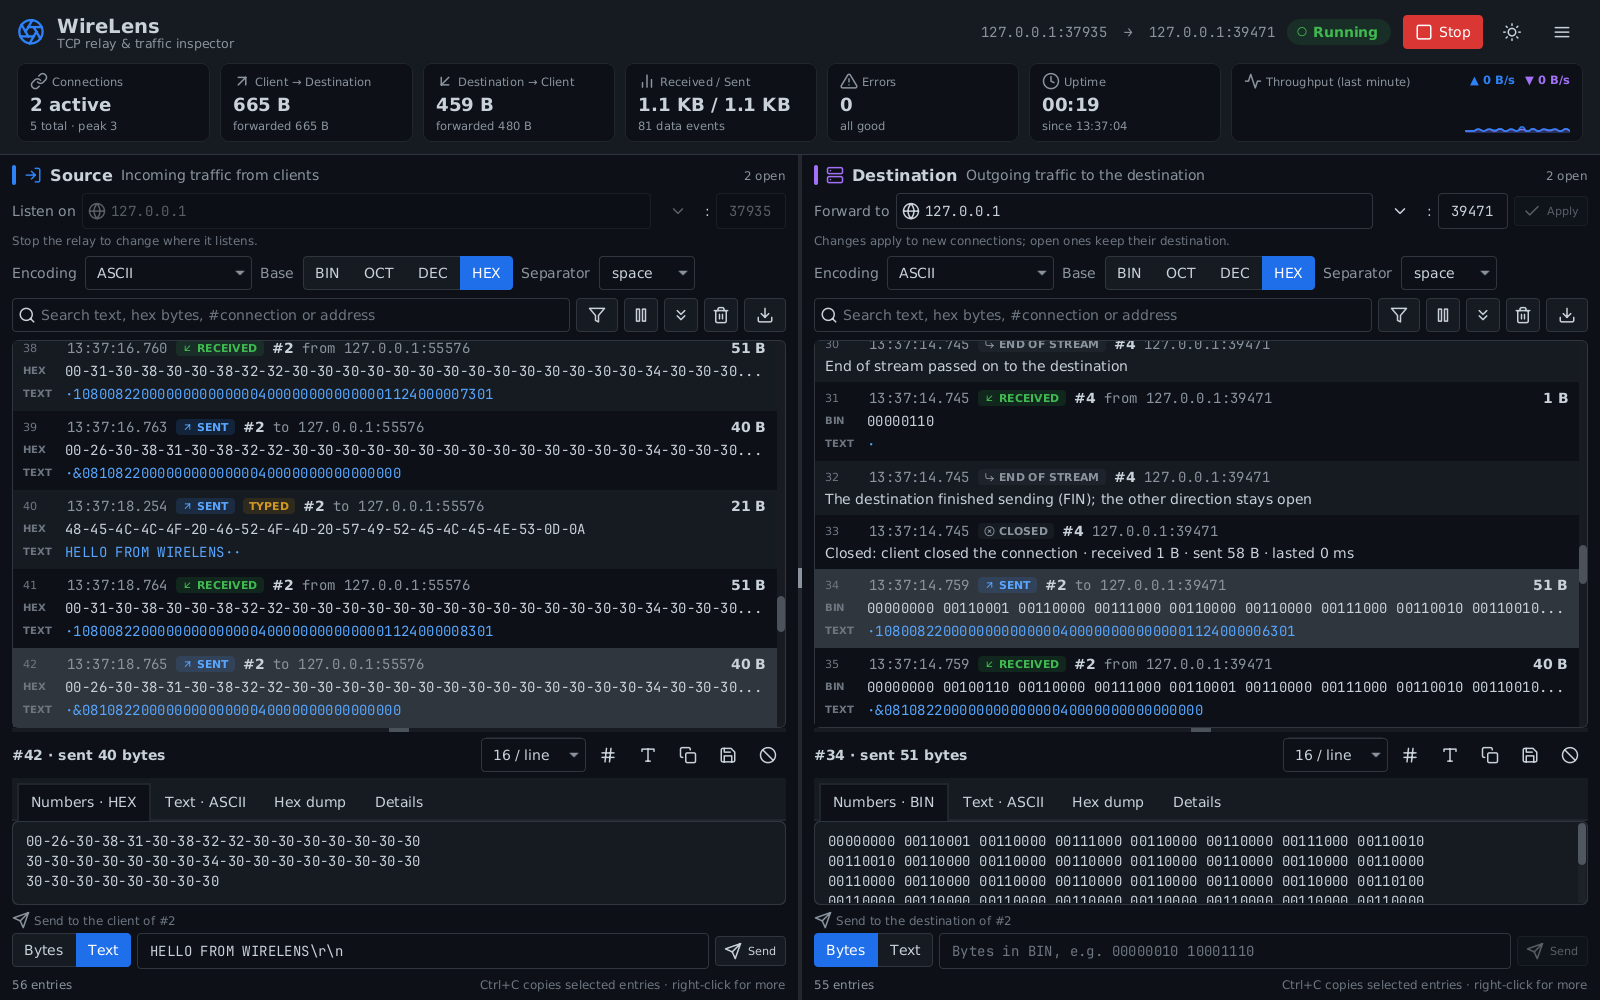
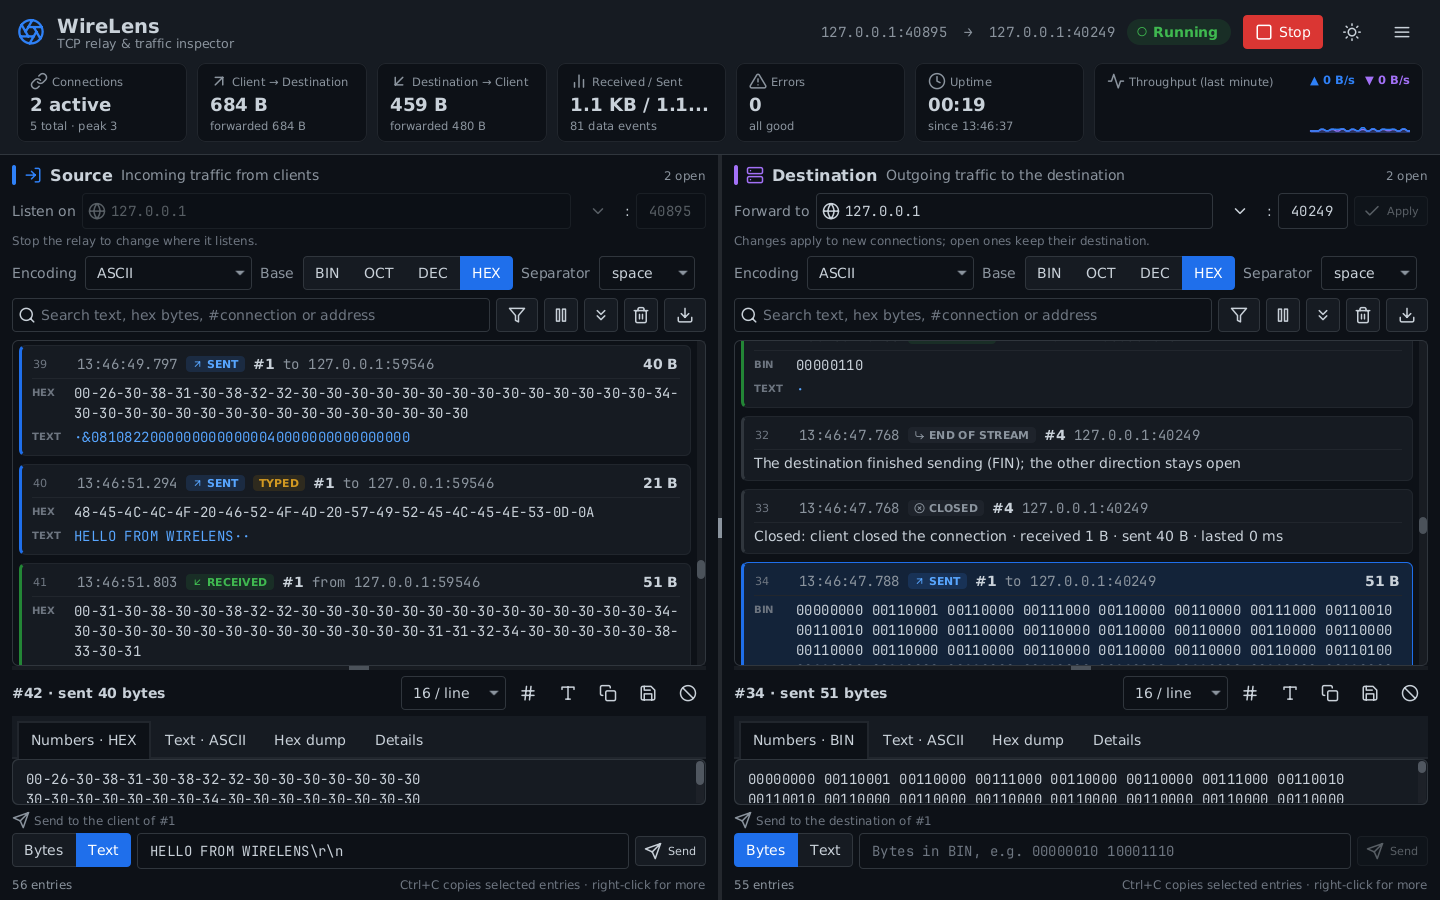
Show each event as its own card and wrap full payloads
Entries are now separate cards with a gap, border and a direction stripe.
HEX and TEXT rows wrap over as many lines as the message needs (up to
2 KiB per entry) instead of being cut to one ellipsized line.

Claude-Session: https://claude.ai/code/session_01UVXkdz2rSqQt1BBmwS5M5j

diff --git a/adapter-javafx/src/main/resources/io/github/mralireza82/wirelens/adapter/javafx/wirelens.css b/adapter-javafx/src/main/resources/io/github/mralireza82/wirelens/adapter/javafx/wirelens.css
@@ -72,11 +72,34 @@
     -fx-border-radius: 6;
     -fx-background-radius: 6;
 }
-.traffic-list .list-cell { -fx-padding: 0; }
-.traffic-list .list-cell:filled { -fx-border-color: transparent transparent -color-border-muted transparent; }
+.traffic-list .list-cell,
+.traffic-list .list-cell:filled,
+.traffic-list .list-cell:filled:hover,
+.traffic-list .list-cell:filled:selected { -fx-padding: 4 6 4 6; -fx-background-color: transparent; -fx-border-color: transparent; }
 .traffic-list .placeholder-text { -fx-text-fill: -color-fg-muted; }
 
-.entry { -fx-padding: 6 10 7 10; -fx-spacing: 3; }
+/* Each event is its own card: a clear gap, a hairline border and a direction stripe on the left. */
+.entry {
+    -fx-padding: 7 10 8 10;
+    -fx-spacing: 4;
+    -fx-background-color: -color-bg-subtle;
+    -fx-background-radius: 6;
+    -fx-border-color: -color-border-muted -color-border-muted -color-border-muted -color-border-default;
+    -fx-border-width: 1 1 1 3;
+    -fx-border-radius: 6;
+}
+.entry.in { -fx-border-color: -color-border-muted -color-border-muted -color-border-muted -color-success-emphasis; }
+.entry.out { -fx-border-color: -color-border-muted -color-border-muted -color-border-muted -color-accent-emphasis; }
+.entry.failed { -fx-border-color: -color-border-muted -color-border-muted -color-border-muted -color-danger-emphasis; }
+.traffic-list .list-cell:filled:hover .entry { -fx-background-color: -color-bg-default; }
+.traffic-list .list-cell:filled:selected .entry {
+    -fx-background-color: -color-accent-subtle;
+    -fx-border-color: -color-accent-emphasis;
+}
+.entry-meta {
+    -fx-padding: 0 0 4 0;
+    -fx-border-color: transparent transparent -color-border-muted transparent;
+}
 .entry-meta { -fx-spacing: 8; -fx-alignment: center-left; }
 .entry-number { -fx-text-fill: -color-fg-subtle; -fx-font-size: 0.8em; -fx-min-width: 36; }
 .entry-time { -fx-text-fill: -color-fg-muted; }

diff --git a/adapter-javafx/src/main/java/io/github/mralireza82/wirelens/adapter/javafx/view/EntryCell.java b/adapter-javafx/src/main/java/io/github/mralireza82/wirelens/adapter/javafx/view/EntryCell.java
@@ -12,17 +12,18 @@ import javafx.scene.control.ListCell;
 import javafx.scene.control.OverrunStyle;
 import javafx.scene.layout.HBox;
 import javafx.scene.layout.Priority;
+import javafx.scene.layout.Region;
 import javafx.scene.layout.VBox;
 import org.kordamp.ikonli.javafx.FontIcon;
 
 /**
- * Renders one traffic entry as a compact card: metadata line, then the numbers and the decoded text, each with
- * a small tag (HEX / TEXT) so the representations are never confused. Previews are capped; the inspector shows
- * everything.
+ * Renders one traffic entry as a separate card: metadata line, then the numbers and the decoded text, each with
+ * a small tag (HEX / TEXT) so the representations are never confused. Both payload rows wrap over as many lines
+ * as the message needs; only very large payloads are capped here, and the inspector always shows everything.
  */
 final class EntryCell extends ListCell<TrafficEntry> {
-    static final int PREVIEW_NUMBER_BYTES = 48;
-    static final int PREVIEW_TEXT_BYTES = 160;
+    static final int PREVIEW_NUMBER_BYTES = 2048;
+    static final int PREVIEW_TEXT_BYTES = 2048;
 
     private final ObservableValue<RenderSettings> settings;
     private final PayloadRenderer renderer;
@@ -58,6 +59,8 @@ final class EntryCell extends ListCell<TrafficEntry> {
         for (Label payload : new Label[] {numbers, text, message}) {
             payload.setWrapText(true);
             payload.setMinWidth(0);
+            // Without this the cell keeps a one-line height and the label ellipsizes instead of wrapping.
+            payload.setMinHeight(Region.USE_PREF_SIZE);
             payload.setMaxWidth(Double.MAX_VALUE);
             HBox.setHgrow(payload, Priority.ALWAYS);
         }
@@ -71,7 +74,7 @@ final class EntryCell extends ListCell<TrafficEntry> {
         listViewProperty().addListener((obs, old, list) -> {
             card.prefWidthProperty().unbind();
             if (list != null) {
-                card.prefWidthProperty().bind(list.widthProperty().subtract(24));
+                card.prefWidthProperty().bind(list.widthProperty().subtract(36));
             }
         });
         setContextMenu(menu);
@@ -93,6 +96,7 @@ final class EntryCell extends ListCell<TrafficEntry> {
         badge.setText(kind.text());
         badge.setGraphic(new FontIcon(kind.icon()));
         badge.getStyleClass().setAll("label", "badge", kind.styleClass());
+        card.getStyleClass().setAll("entry", kind.styleClass());
         show(typed, EntryPresenter.isTyped(event));
         connection.setText(event.connectionId().map(Object::toString).orElse(""));
         peer.setText(EntryPresenter.peer(event));
